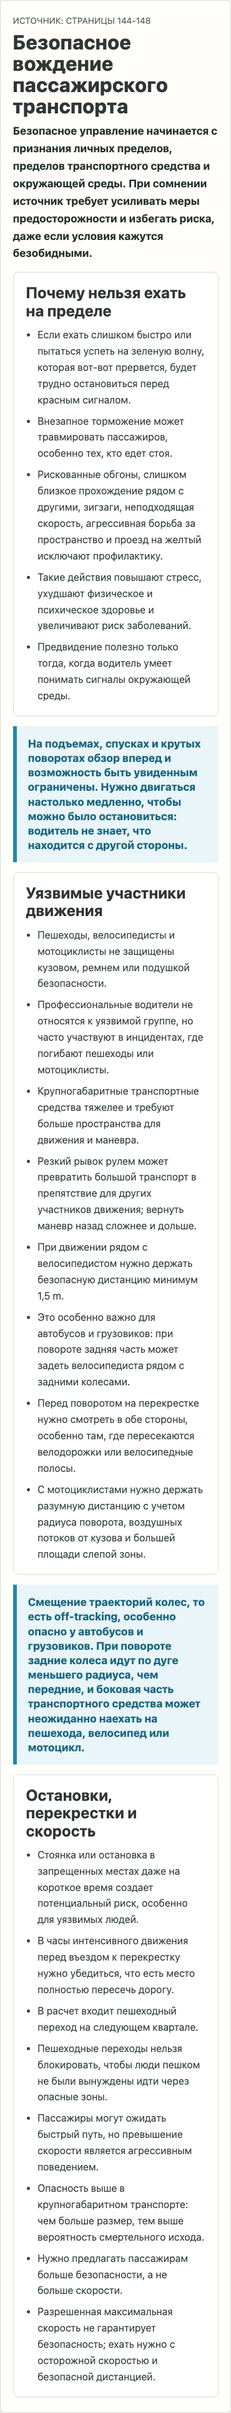
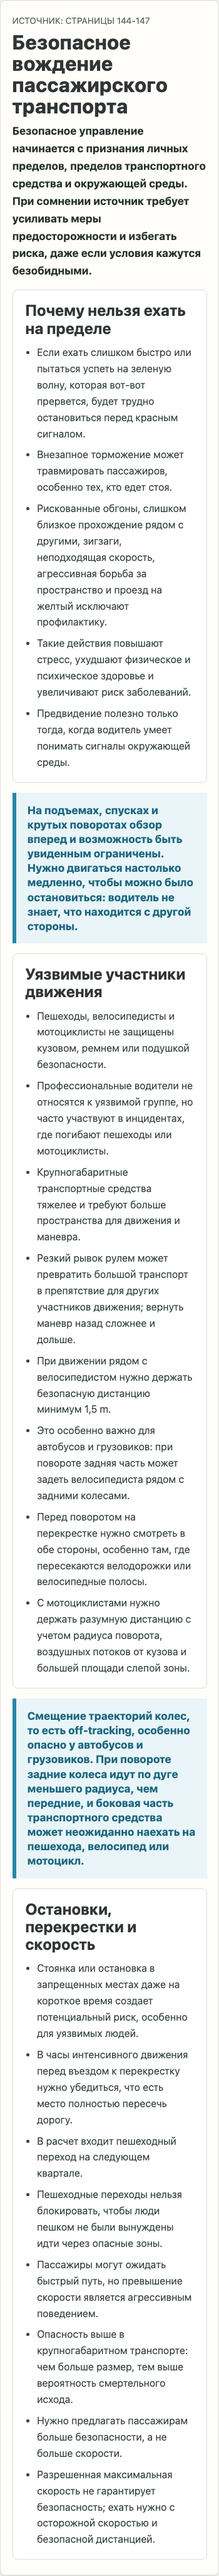
Fix Appendix II page 148 ownership

diff --git a/src/data/manual-sections/app2-safe-driving.ts b/src/data/manual-sections/app2-safe-driving.ts
@@ -4,7 +4,7 @@ export const app2SafeDrivingSection: ManualGuideSectionContent = {
   id: "app2-safe-driving-content",
   sectionId: "app2-safe-driving",
   titleRu: "Безопасное вождение пассажирского транспорта",
-  sourcePages: [144, 145, 146, 147, 148],
+  sourcePages: [144, 145, 146, 147],
   sourceTitleEs: "Conduccion segura",
   status: "implemented",
   styleTokenFamilies: [
@@ -19,15 +19,14 @@ export const app2SafeDrivingSection: ManualGuideSectionContent = {
       "content/validation/manual-guide/app2-safe-driving/page-144-safe-driving-source-crop.jpg",
       "content/validation/manual-guide/app2-safe-driving/page-145-safe-driving-source-crop.jpg",
       "content/validation/manual-guide/app2-safe-driving/page-146-safe-driving-source-crop.jpg",
-      "content/validation/manual-guide/app2-safe-driving/page-147-safe-driving-source-crop.jpg",
-      "content/validation/manual-guide/app2-safe-driving/page-148-safe-driving-source-crop.jpg"
+      "content/validation/manual-guide/app2-safe-driving/page-147-safe-driving-source-crop.jpg"
     ],
     russianScreenshots: [
       "content/validation/manual-guide/app2-safe-driving/app2-safe-driving-desktop.png",
       "content/validation/manual-guide/app2-safe-driving/app2-safe-driving-mobile.png"
     ],
     notes: [
-      "Pages 144-148 are implemented as selectable Russian DOM text.",
+      "Pages 144-147 are implemented as selectable Russian DOM text.",
       "No source images, photos, traffic signs, or road markings are used at runtime or altered."
     ]
   },

diff --git a/src/data/manual-sections/app2-highways-hospitals.ts b/src/data/manual-sections/app2-highways-hospitals.ts
@@ -7,7 +7,7 @@ export const app2HighwaysHospitalsSection: ManualGuideSectionContent = {
   id: "app2-highways-hospitals-content",
   sectionId: "app2-highways-hospitals",
   titleRu: "Автомагистрали и больницы",
-  sourcePages: [149, 150, 151],
+  sourcePages: [148, 149, 150, 151],
   sourceTitleEs: "Autopistas y hospitales",
   status: "implemented",
   styleTokenFamilies: [
@@ -20,6 +20,7 @@ export const app2HighwaysHospitalsSection: ManualGuideSectionContent = {
   visualEvidence: {
     checkerStatus: "pass",
     sourceScreenshots: [
+      "content/validation/manual-guide/app2-highways-hospitals/page-148-highways-hospitals-source-crop.jpg",
       "content/validation/manual-guide/app2-highways-hospitals/page-149-highways-hospitals-source-crop.jpg",
       "content/validation/manual-guide/app2-highways-hospitals/page-150-highways-hospitals-source-crop.jpg",
       "content/validation/manual-guide/app2-highways-hospitals/page-151-highways-hospitals-source-crop.jpg"

diff --git a/specs/031-manual-document-completion/tasks.md b/specs/031-manual-document-completion/tasks.md
@@ -115,7 +115,7 @@ For each chapter-equivalent content PR:
 | Chapter 4 | `89-97` | One chapter PR covering `ch4-alcohol-drugs`, `ch4-sleep-fatigue`, `ch4-stress`, and `ch4-distractions`; page `89` divider skipped; page `93` shared by alcohol/drugs and sleep/fatigue; page `94` shared by sleep/fatigue and stress; page `95` shared by stress recommendations and distractions with direct distractions navigation starting on page `95` | ready PR #189 at https://github.com/cucumberfalse/cabadrive/pull/189 from branch `codex/031-chapter-4`; implementation content head `2338c3a5e777cbd469f9ca23bcbbbf9dbbd4c62b`; page-93 boundary, refusal-procedure localization, stress-localization, strict infographic visual-rule repairs, Codex P2 `3351663509` motorcycle-passenger alcohol-limit scope repair, Codex P2 `3352010484` overlay-label visual-rule repair, Review Agent comment `3352219633` overlay-label mobile clipping repair, Codex P2 `3352233947` alcohol-effects localization repair, Review Agent comment `3352327144` sleep/fatigue remedy localization repair, and Review Agent comment `3352354749` broader learner-facing localization audit repair are included at effective content head `4e819cfd80ebf09b4d3db560a6bc3b57766ef39a`; ready for Analyst final validation after Architect validation at this head and later evidence transport/current-head guard |
 | Chapter 5 | `98-103` | One chapter PR covering `ch5-attitude-types`, `ch5-equal-society`, `ch5-gender-violence-prevention`, and `ch5-anticipatory-efficient-driving`; page `98` divider skipped; page `99` shared by attitude types and equality; page `100` shared by equality and gender-violence support; page `101` shared by gender-violence support and preventive/efficient driving | ready PR #190 open at https://github.com/cucumberfalse/cabadrive/pull/190 from branch `codex/031-chapter-5`; implementation content head `fa6983a6be8069b4bb4aaa51140a218c6ada3096`; current PR head reported by IA handoff |
 | Appendix I | `104-122` | One chapter-equivalent PR covering `app1-safety-elements`, `app1-other-required-safety-elements`, and `app1-recommended-safety-elements`; page `104` divider skipped; page `119` shared by safety-elements luggage/max-load masks and other-required heading/content | ready PR #191 open at https://github.com/cucumberfalse/cabadrive/pull/191 from branch `codex/031-appendix-i`; effective content/process head `dda0ad28119335c49499b9594e2f79a994fea823` includes implementation, localization repairs, SRI all-threshold/title/screenshot repair, tire-blowout page `109` repair, page `119` shared ownership repair, mirror photo-only crop repair, AI Review P2 `3354284239` SRI `+0` overlay correction to source range `1-15 месяцев, 0-13 kg`, and parser-readable Appendix I known-issue disposition/process-head decision; fresh Architect validation passed at `2026-06-04T08:56:25Z`; prior validation at `866646b8cfc54116975f21d8212e09f8d1c9b7c4` is stale/superseded for finalizer purposes; current/final PR head verification remains Orchestrator/finalizer-owned via read-only guard and expected-head finalizer before merge |
-| Appendix II | `123-151` | One chapter-equivalent PR covering `app2-social-responsibility`, `app2-safety-elements`, `app2-driving-factors`, `app2-safe-driving`, and `app2-highways-hospitals`; page `123` is included in `app2-social-responsibility`, not skipped | PR #192 open at https://github.com/cucumberfalse/cabadrive/pull/192 from branch `codex/031-appendix-ii`; current/effective repaired head `2bf175fdfd26d3216c880e648f6de7690ff434b6` includes implementation content head `30350124810133d9e7a77a8b2cb03356c36134b3`, AI Review P2 `3355086974` visual-preservation repair head `9ab22a12a6491228e4362cfb37dcfd871fb42d74`, Review Agent P2 `3355330713` mirror-readability layout repair, owner-approved page `150` unchanged high-resolution source image plus adjacent/under-image Russian translations for Review Agent P2 `3355789164`, page `123` learner-relevant introduction/professional-driver content repair for AI Review P1 `3357783979` at `22e242c13e05076998f83eea8c85dd5151890345`, and child-topic navigation-start repair for AI Review P2 `3358030532`; fresh Architect then Analyst validation remains before finalization, with stale-validation P1 `3357635123` as the expected validation item |
+| Appendix II | `123-151` | One chapter-equivalent PR covering `app2-social-responsibility`, `app2-safety-elements`, `app2-driving-factors`, `app2-safe-driving`, and `app2-highways-hospitals`; page `123` is included in `app2-social-responsibility`, not skipped | PR #192 open at https://github.com/cucumberfalse/cabadrive/pull/192 from branch `codex/031-appendix-ii`; current/effective repaired head `2bf175fdfd26d3216c880e648f6de7690ff434b6` includes implementation content head `30350124810133d9e7a77a8b2cb03356c36134b3`, AI Review P2 `3355086974` visual-preservation repair head `9ab22a12a6491228e4362cfb37dcfd871fb42d74`, Review Agent P2 `3355330713` mirror-readability layout repair, owner-approved page `150` unchanged high-resolution source image plus adjacent/under-image Russian translations for Review Agent P2 `3355789164`, page `123` learner-relevant introduction/professional-driver content repair for AI Review P1 `3357783979` at `22e242c13e05076998f83eea8c85dd5151890345`, child-topic navigation-start repair for AI Review P2 `3358030532`, derived topic-display override repair for AI Review P2 `3358308779`, and page `148` source-boundary repair for AI Review P2 `3358446725`; fresh Review Agent, required checks, Architect validation, and Analyst validation remain before finalization, with stale-validation P1 `3357635123` as the expected validation item |
 | Appendix III | `152-183` | One chapter-equivalent PR | pending |
 | Appendix IV | `184-200` | One chapter-equivalent PR; source-as-is signs/markings | pending |
 
@@ -220,11 +220,12 @@ For each chapter-equivalent content PR:
 - Validation staleness notice, PR #190: automated Codex comments `3352716346` and `3352716350` required a post-review non-evidence visual asset/registry/test/process repair after current head `c6a040a21162f6dd9ebc0474e20993e5b8cb45c6`; therefore any final validation or final-validation evidence for `c6a040a21162f6dd9ebc0474e20993e5b8cb45c6` is stale for finalization. The pushed visual/boundary repair head must become the new effective content head and receive fresh Architect then Analyst final validation before finalization.
 - Validation staleness decision, PR #189 `2026-06-03T18:25:31Z`: Codex review comment `3350790136` required a post-validation non-evidence content/test/registry/process repair after effective content head `a8ecdac9daed66274ba51fb04ecbe47279aae2f6` and current head `9d249963ff245f32f67384a4bc17f1361d8bb891`. Prior Architect and Analyst final validation for `a8ecdac9daed66274ba51fb04ecbe47279aae2f6` is stale for finalization; a new effective content head plus fresh Architect final validation followed by Analyst final validation is required after this repair is committed, pushed, and required checks pass.
 - Implementation decision, Appendix II content `2026-06-04T09:43:06Z`: Implementation Agent assignment was confirmed for worktree `/Users/chap/devel/cabadrive-worktrees/031-appendix-ii`, branch `codex/031-appendix-ii`, with verified base `origin/main` / `HEAD` `38ab6bac15a6f90ee7a9520c59cf932c38f5597f` after merged PR #191 Appendix I. Parallel work warning was preserved; no sibling worktree, branch, dirty diff, PR, or process memory was mutated.
-- Appendix II source-boundary decision after AI Review P1 `3357783979` / thread `PRRT_kwDOSX65IM6HJjmB`: source page `123` is learner-relevant Appendix II content, not divider-only. Official source page `123` contains the Appendix II introduction and the start of `Una responsabilidad social`, including the public-transport social/mobility framing, professional-driver definition, license categories `C`, `D`, and `E`, minimum age `21`, more than `1` year prior class `B` experience, first-time professional-license practical exam rule for people over `65`, and the key-role callout. Runtime Appendix II must implement page `123` in `app2-social-responsibility` with page `124`, then continue `app2-safety-elements` pages `125-136`, `app2-driving-factors` pages `137-143`, `app2-safe-driving` pages `144-148`, and `app2-highways-hospitals` pages `149-151`. Prior page `123` divider-only/skipped disposition is superseded. No Appendix III, Appendix IV, front matter, cleanup, or unrelated correction content is bundled.
+- Appendix II source-boundary decision after AI Review P1 `3357783979` / thread `PRRT_kwDOSX65IM6HJjmB`: source page `123` is learner-relevant Appendix II content, not divider-only. Official source page `123` contains the Appendix II introduction and the start of `Una responsabilidad social`, including the public-transport social/mobility framing, professional-driver definition, license categories `C`, `D`, and `E`, minimum age `21`, more than `1` year prior class `B` experience, first-time professional-license practical exam rule for people over `65`, and the key-role callout. Runtime Appendix II must implement page `123` in `app2-social-responsibility` with page `124`, then continue `app2-safety-elements` pages `125-136`, `app2-driving-factors` pages `137-143`; later AI Review P2 `3358446725` corrected the final source boundary so `app2-safe-driving` owns pages `144-147` and `app2-highways-hospitals` owns pages `148-151`. Prior page `123` divider-only/skipped disposition is superseded. No Appendix III, Appendix IV, front matter, cleanup, or unrelated correction content is bundled.
 - Validation staleness decision, PR #192 AI Review P1 `3357783979`: prior final Architect/Analyst validations through effective process/content head `d502fad26cdfcf8c4c03b57134cf6bd9d870828d` are stale because the page `123` source-boundary/content repair is behaviorally meaningful Appendix II runtime content and evidence scope. PR #192 cannot finalize until page `123` coverage is implemented, reviewed, checked, and fresh Architect then Analyst validation is recorded on the new effective head. Other AI Review P1 `3357635123` about stale validation should be handled after this page `123` content/boundary repair; it is expected to be superseded by fresh validation on the repaired head.
 - Appendix II navigation-start decision after AI Review P2 `3358030532` / thread `PRRT_kwDOSX65IM6HKL42`: accept the finding for navigation behavior. Source/content ownership remains `app2-social-responsibility` pages `123-124`, and the Appendix II parent navigation item must keep `startPage: 123` for the appendix intro/source start. However, the child topic navigation item `app2-social-responsibility` / `Социальная ответственность` must start at source page `124`, because the layout evidence places the actual `Una responsabilidad social` heading on page `124`; page `123` is Appendix II introduction/pre-heading content and should not make the child topic duplicate the parent appendix target. Smallest Implementation Agent follow-up: update only the child topic navigation `startPage` to `124`, keep its source/content range and registry evidence at `123-124`, keep runtime page `123` learner content intact, and update any navigation tests/fixtures/evidence that assert the child starts at `123`. Prior final validations remain stale until this navigation fix is implemented, reviewed, checked, and fresh Architect then Analyst validation is recorded.
 - Appendix II registry ownership disposition after AI Review P2 `3358076379` / thread `PRRT_kwDOSX65IM6HKTgZ`: reject the finding as a false positive for source/content ownership. Source page `123` is not only the Appendix II divider/title page; the official source page `123` contains learner-relevant Appendix II introduction text and the start of the professional-driver/social-responsibility material, including public-transport social/mobility framing, professional-driver definition, license categories `C`/`D`/`E`, minimum age `21`, class `B` experience over `1` year, first-time professional-license practical-exam rule for people over `65`, and the key-role callout before the page `124` marker. Therefore `app2-social-responsibility` must continue to own source/content pages `123-124`; the already-implemented navigation split remains correct with the Appendix II parent starting at page `123` and the child topic navigation starting at page `124`. Smallest Implementation Agent follow-up: no product/runtime/registry change is required for `3358076379`; only commit this Architect process-memory disposition and continue with Review Agent/check resolution plus fresh Architect then Analyst validation for the repaired PR head. Prior final validations remain stale until that fresh validation cycle completes.
 - Appendix II guide-topic display disposition after AI Review P2 `3358308779` / thread `PRRT_kwDOSX65IM6HK9CL`: accept the finding as a real product/navigation-display gap, but reject excluding source page `123` from `app2-social-responsibility` content ownership. Official source page `123` remains learner-relevant Appendix II content and must stay in `sourcePageRange` / `sourcePages` for `app2-social-responsibility` (`123-124`). The gap is that `src/data/manualGuide.ts` derives `ManualGuideNavigationChild.sourcePage` from `section.sourcePageRange.start`, so the derived interactive guide topic can display/select page `123` even though canonical child navigation starts at page `124`. Smallest Implementation Agent follow-up: add an explicit registry/schema/type field for topic navigation/display start, or an equivalent narrowly scoped override, set it to `124` for `app2-social-responsibility`, update `childForSection` to use that override for `sourcePage` while keeping `endPage` and content/evidence coverage intact, preserve Appendix II parent `startPage: 123`, preserve `app2-social-responsibility` source/content ownership pages `123-124`, and add/update tests so registry ownership remains `123-124` while derived `manualGuideNavigation` child display/start is `124`. Prior Architect/Analyst final validation for effective content/process head `92771e10ca9afdaa9f7906a71f74d4fa8f9c3b32` is stale because the follow-up requires product/schema/test changes; fresh Review Agent, required checks, Architect validation, and Analyst validation are required after IA implementation.
+- Appendix II source-boundary disposition after AI Review P2 `3358446725` / thread `PRRT_kwDOSX65IM6HLVwQ`: accept the finding as a real source-boundary and product-evidence gap. Official source page `148` begins the `Autopistas y Hospitales` section with `Paseo del Bajo` rules, while current runtime `app2-highways-hospitals` renders Paseo del Bajo content but registry/navigation/evidence assign page `148` to `app2-safe-driving` and start highways/hospitals at page `149`. Smallest Implementation Agent follow-up: move source page `148` provenance from `app2-safe-driving` to `app2-highways-hospitals`; set `app2-safe-driving` source/content/evidence/navigation range to pages `144-147`; set `app2-highways-hospitals` source/content/evidence/navigation range to pages `148-151` and derived guide topic start/display to `148`; update section modules, registry, navigation, source-region metadata, screenshot/evidence references, tests, and checker expectations accordingly. If source crop/evidence files are moved or renamed, preserve x5/equivalent source-export bytes without retouching, translation, cleanup, reconstruction, masking, or in-image alteration. Preserve the page `150` hospital map exactly source-as-is with Russian translations outside/below. Prior Architect/Analyst final validation for `92771e10ca9afdaa9f7906a71f74d4fa8f9c3b32` and process/product evidence through `c6e24663c9e337c7cdab76fc7f5cca1591e5eb6a` is stale for finalization because this follow-up requires product/evidence/test changes; fresh Review Agent, required checks, Architect validation, and Analyst validation are required after IA implementation.
[1 lines of base64/hex data omitted]
 - Appendix II page `150` hospital-map owner decision after Review Agent P2 `3355789164` and Implementation Agent feedback: user decision received via Orchestrator on `2026-06-04` says to leave the original high-quality source image unchanged and add translations nearby under the image. Architect disposition: the current PR head `bf9f9f21f4cb9d014d37dc5092921a419f83d855` broad-mask transferred runtime map is not acceptable and must be replaced. Page `150` must instead render the original high-resolution x5/equivalent source map image unchanged at runtime, with no Spanish cleanup, inpainting, masking, translation, relabeling, recolor, reconstruction, retouching, or source-detail alteration inside the image; Russian title/legend/list/full hospital-name translations must be adjacent to or below the image as selectable DOM text. This is an owner-approved narrow visible-Spanish source-image exception for the page `150` hospital map only because the image remains source-as-is and all Russian translation is outside/under it. Final Architect validation may pass only after Implementation Agent removes/stops certifying broad cleanup/provenance, implements the source-as-is runtime map, updates evidence/tests/screenshots/registry to identify the page `150` exception, and Review Agent P2 `3355789164` is resolved or outdated.
 - Appendix II content decision: Russian learner content preserves the passenger-transport legal and safety details from the source, including professional-driver requirements (`21+`, at least one year with category B, practical exam after age `65`), social responsibility, VTV/technical-state duties, mirrors, brakes, tires, belts, passenger compartment/equipment, rest/fatigue/nutrition/posture/accessibility, taxi/remis/bus/school/reduced-mobility practices, boarding/alighting safety, bus-stop approach, passenger information, taxi positioning, `1,5 m` cyclist passing distance, off-tracking and turn-circle caution, speed/stopping-distance factors, Paseo del Bajo use, hospital map/location references, and priority/wayfinding near hospitals.
@@ -296,6 +297,7 @@ For each chapter-equivalent content PR:
 - Appendix II known issue resolution after AI Review P1 `3357783979` / thread `PRRT_kwDOSX65IM6HJjmB`: source page `123` coverage is resolved. Prior disposition incorrectly treated page `123` as divider-only/skipped, but official source page `123` contains learner-relevant Appendix II introduction and `Una responsabilidad social` content: professional-driver definition, categories `C`/`D`/`E`, minimum age `21`, class `B` experience over `1` year, first-time professional-license practical exam rule for people over `65`, and key-role callout. Implementation Agent repair implements source page `123` in `app2-social-responsibility`, updates registry/navigation/source-fidelity evidence so page `123` is no longer skipped/divider-only, refreshes `app2-social-responsibility` screenshots, and adds regression tests for page `123` ownership and learner-facing professional-driver details. Owner decision: resolved by source-boundary evidence; no separate owner choice needed. Disposition: resolved at effective content/process head `92771e10ca9afdaa9f7906a71f74d4fa8f9c3b32` and evidence head `767fdb41bfb2ad89d219e50ef496a2162cfc86e9`; Architect and Analyst final validation are recorded for the effective head. Existing Vite large chunk warning remains non-fatal and pre-existing; it is unrelated to Appendix II content and requires no action in this slice. The page `150` owner-approved source-as-is visible-Spanish exception remains resolved/intact.
 - Appendix II known issue resolution after AI Review P2 `3358030532` / thread `PRRT_kwDOSX65IM6HKL42`: child topic navigation start is resolved. Implementation Agent repair updates the child topic navigation start for `app2-social-responsibility` / `Социальная ответственность` to page `124`, preserving the Appendix II parent `startPage: 123`, `app2-social-responsibility` source/content ownership pages `123-124`, runtime page `123` learner content, and registry/source-fidelity evidence. Owner decision: not applicable; navigation/source-boundary evidence resolves the issue. Disposition: resolved at effective content/process head `92771e10ca9afdaa9f7906a71f74d4fa8f9c3b32` and evidence head `767fdb41bfb2ad89d219e50ef496a2162cfc86e9`; Review Agent, required checks, Architect validation, and Analyst validation are complete for this repair path.
 - Appendix II known issue resolution after AI Review P2 `3358308779` / thread `PRRT_kwDOSX65IM6HK9CL`: derived `manualGuideNavigation` display/start is resolved. `app2-social-responsibility` source/content ownership remains pages `123-124`; page `123` is not skipped/divider-only and retains learner content/evidence. Implementation Agent repair adds the explicit `topicNavigationStartPage` override in the section registry/types, sets it to `124` for `app2-social-responsibility`, and updates `childForSection` so the derived interactive guide child topic starts/displays page `124` while retaining `sourcePageRange`/`sourcePages` coverage through pages `123-124`. Owner decision: not needed; source and navigation evidence define the required implementation path. Disposition: resolved by product/schema/test follow-up; previous final Architect/Analyst validation for `92771e10ca9afdaa9f7906a71f74d4fa8f9c3b32` is stale and fresh validation is required after review and checks on the new effective content/process head.
+- Appendix II known issue resolution after AI Review P2 `3358446725` / thread `PRRT_kwDOSX65IM6HLVwQ`: page `148` source-boundary/provenance is resolved by IA follow-up. Official source page `148` starts `Autopistas y Hospitales` / `Paseo del Bajo`, and runtime `app2-highways-hospitals` renders Paseo del Bajo rules, so registry/navigation/source-fidelity evidence now assign page `148` to `app2-highways-hospitals`, reduce `app2-safe-driving` to pages `144-147`, and start/display `app2-highways-hospitals` at page `148` through page `151`. Owner decision: not needed; source-boundary evidence defines the repair. Disposition: resolved by product/evidence/test follow-up; previous final Architect/Analyst validation is stale and fresh Review Agent, required checks, Architect validation, and Analyst validation are required after this repair.
 
 ## Chapter 2 Implementation Verification Evidence
 
@@ -448,7 +450,7 @@ For each chapter-equivalent content PR:
 - Base and scope evidence: `git rev-parse HEAD` before editing returned `38ab6bac15a6f90ee7a9520c59cf932c38f5597f`, matching the Orchestrator-assigned verified `origin/main` base after merged PR #191 Appendix I. Initial active-worktree status showed branch `codex/031-appendix-ii` tracking `origin/main` with no local changes. Work stayed in `/Users/chap/devel/cabadrive-worktrees/031-appendix-ii` on branch `codex/031-appendix-ii`.
 - Source extraction evidence: `swift scripts/render-manual-pdf-pages.swift content/official-documents/originals/gcba-manual-vehiculo-4-ruedas-2023.pdf /tmp/cabadrive-app2-x5-pages --scale 5 --quality 0.95` rendered source pages `123-151` at `2976x4209`. Committed Appendix II source crops under `content/validation/manual-guide/app2-*/` were copied from those x5 renders with no resizing, translation, cleanup, retouching, masking, inpainting, reconstruction, or broad plates. Prior page `123` divider evidence under `app2-social-responsibility` is stale after AI Review P1 `3357783979`; Implementation Agent must replace the skipped/divider disposition with source-backed page `123` learner-content evidence.
[3 lines of base64/hex data omitted]
 - Focused verification before AI Review P1 `3357783979`: `node scripts/manual-guide-source-fidelity.mjs` passed with `status: pass`, `mode: complete-chapters-1-through-5-and-appendices-1-through-2`, `sectionsChecked: 35`, `pendingSections: 0`, `implementedSections: 35`, `skippedSourcePages: [21,43,56,57,89,98,104,123]`, `skippedDividerPages: [21,43,57,89,98,104,123]`, `omittedBookOnlyPages: [56]`, `sharedSourcePages: [55,93,94,95,99,100,101,119]`, `screenshotEvidence: recorded_for_complete_chapters_1_through_5_and_appendices_1_through_2_sections`, `sourceCropEvidence: x5_source_crops_recorded_for_complete_chapters_1_through_5_and_appendices_1_through_2_sections`, and `strictVisualRulePolicy: 031-strict-source-fidelity`. This verification is stale for page `123`; repaired verification must no longer list page `123` as skipped/divider-only.
 - Focused verification before AI Review P1 `3357783979`: `node --test tests/content-manual-guide-chapters.test.mjs` passed with `82` tests and `0` failures. Assertions included the now-stale page `123` divider disposition; repaired tests must instead cover page `123` Appendix II introduction/professional-driver content, source range through `151`, exact five Appendix II section ids, passenger-transport legal/safety/health/route detail retention, strict visual metadata, source boundaries, screenshot/source-crop evidence, and no Appendix III/IV bundling.
[1 lines of base64/hex data omitted]
@@ -456,6 +458,7 @@ For each chapter-equivalent content PR:
 - Review-fix focused verification after AI Review P1 `3357783979`: `node scripts/manual-guide-source-fidelity.mjs` passed with `sectionsChecked: 35` and page `123` absent from `skippedSourcePages` / `skippedDividerPages`; `node --test tests/content-manual-guide-chapters.test.mjs` passed `86/86` subtests; `node --test tests/content-manual-vehiculo-4ruedas.test.mjs` passed `16/16` subtests; `pnpm exec tsc --noEmit`, `node scripts/check-feature-memory.mjs --worktree`, `git diff --check`, and `pnpm run build` passed. The production build included content validation, source-fidelity validation, asset sync, Vite build, and service-worker generation with the existing non-fatal large-chunk warning.
 - Review-fix focused verification after AI Review P2 `3358030532` / thread `PRRT_kwDOSX65IM6HKL42`: updated only the child topic navigation start for `app2-social-responsibility` / `Социальная ответственность` to page `124`; Appendix II parent navigation remains `startPage: 123`, `app2-social-responsibility` source/content ownership and registry/source-fidelity evidence remain pages `123-124`, and runtime page `123` learner content remains intact. `node scripts/manual-guide-source-fidelity.mjs` passed with `sectionsChecked: 35`, `pendingSections: 0`, `implementedSections: 35`, `skippedSourcePages: [21,43,56,57,89,98,104]`, and `skippedDividerPages: [21,43,57,89,98,104]`; `node --test tests/content-manual-vehiculo-4ruedas.test.mjs` passed `16/16` subtests; `node --test tests/content-manual-guide-chapters.test.mjs` passed `86/86` subtests; `node scripts/check-feature-memory.mjs --worktree` passed; `git diff --check` passed.
 - Review-fix focused verification after AI Review P2 `3358308779` / thread `PRRT_kwDOSX65IM6HK9CL`: `app2-social-responsibility` registry source/content ownership remains `123-124` and derived `manualGuideNavigation` child display/start now uses `topicNavigationStartPage: 124`. `node scripts/check-feature-memory.mjs --worktree` passed; `pnpm run validate:manual-guide` passed with `sectionsChecked: 35`, `pendingSections: 0`, `implementedSections: 35`, `skippedSourcePages: [21,43,56,57,89,98,104]`, and `skippedDividerPages: [21,43,57,89,98,104]`; `node --test --test-name-pattern "Appendix II|manualGuideNavigation|registry contains source|hierarchy references source" tests/content-manual-guide-chapters.test.mjs` passed the selected `7` subtests with `0` failures; `pnpm exec tsc --noEmit` passed; `git diff --check` passed; `pnpm run test` passed `395/395` tests; `pnpm run build` passed, including content validation, source-fidelity validation, asset sync, Vite build, and service-worker generation with the existing non-fatal large-chunk warning.
[2 lines of base64/hex data omitted]
 - Focused verification passed: `pnpm exec tsc --noEmit`; `git diff --check`; `node scripts/check-feature-memory.mjs --worktree`; `node scripts/manual-guide-source-fidelity.mjs`; `node --test tests/content-manual-guide-chapters.test.mjs` with `82` tests and `0` failures.
 - Broader verification passed: `pnpm run preflight` passed, including feature-memory gate, repository baseline check, content validation with source-fidelity `sectionsChecked: 35`, `pendingSections: 0`, and `implementedSections: 35`, `pnpm run test` with `391` tests and `0` failures, production build, service-worker generation, and Playwright e2e with `78` tests and `0` failures. The existing Vite large chunk warning appeared during builds and remains non-fatal/pre-existing.
@@ -957,6 +960,7 @@ For each chapter-equivalent content PR:
 - Implementation Agent feedback for Appendix II scope after AI Review P1 `3357783979` / thread `PRRT_kwDOSX65IM6HJjmB`: content-boundary repair was implemented by Implementation Agent at `22e242c13e05076998f83eea8c85dd5151890345`. Source page `123` is implemented in `app2-social-responsibility`, preserving the Appendix II introduction/social-mobility framing, professional-driver definition, categories `C`/`D`/`E`, minimum age `21`, class `B` experience over `1` year, first-time professional-license practical exam rule for people over `65`, and key-role callout; source ranges, registry/navigation, evidence, screenshots, and tests cover Appendix II pages `123-151` without listing page `123` as skipped/divider-only. Architect disposition: disposed; no action needed for PR #192 at effective content/process head `92771e10ca9afdaa9f7906a71f74d4fa8f9c3b32` and evidence head `767fdb41bfb2ad89d219e50ef496a2162cfc86e9`.
 - Implementation Agent feedback for Appendix II scope after AI Review P2 `3358030532` / thread `PRRT_kwDOSX65IM6HKL42`: navigation-start feedback is implemented in this IA follow-up. The child topic navigation start for `app2-social-responsibility` / `Социальная ответственность` points to page `124`, where layout evidence places the `Una responsabilidad social` heading; the Appendix II parent still starts at `123`, `app2-social-responsibility` source/content ownership and registry/evidence remain pages `123-124`, and runtime page `123` learner content is intact. Architect disposition: disposed; no action needed for PR #192 at effective content/process head `92771e10ca9afdaa9f7906a71f74d4fa8f9c3b32` and evidence head `767fdb41bfb2ad89d219e50ef496a2162cfc86e9`.
 - Implementation Agent feedback for Appendix II scope after AI Review P2 `3358308779` / thread `PRRT_kwDOSX65IM6HK9CL`: implemented in this IA follow-up. `app2-social-responsibility` source/content ownership remains pages `123-124`; page `123` is not marked skipped/divider-only and learner content/evidence remains intact. The section registry now carries `topicNavigationStartPage: 124`, `ManualGuideSectionEntry` types the override, and `childForSection` uses it for the derived `manualGuideNavigation` child `sourcePage`/display start while retaining `sourcePageRange`/`sourcePages` coverage and `endPage: 124`. Focused tests assert both the preserved `123-124` source range and the derived child display/start page `124`. Architect disposition: implementation complete for IA scope; previous final validation for `92771e10ca9afdaa9f7906a71f74d4fa8f9c3b32` is stale after this product/schema/test follow-up and must be rerun after Review Agent and required checks.
[1 lines of base64/hex data omitted]
 - Implementation Agent feedback for Chapter 5 scope after Review Agent comment `3352682015` and automated Codex comments `3352716346` / `3352716350`: none unresolved. Page `98` is divider-only; pages `99-103` are implemented as the assigned Chapter 5 content slice; page `99`, page `100`, and page `101` shared boundaries are recorded and tested; page `101` now coherently records that gender-violence support masks `11-25` continue after the preventive-driving heading at mask `09`; protected page `103` photo/quote remains source-as-is with Russian explanation outside the image; the page `100` mobility infographic is a source-crop-based transferred PNG with glyph-letter-level Spanish cleanup, `visibleSpanish=false`, source-crop provenance, cleaned `54%`/`50%`/`30%` row glyph fragments, and selectable Russian DOM labels over the cleaned infographic surface; the mixed-language preventive-driving title is localized to Russian and covered by regression tests. No Appendix/front-matter or unrelated content is bundled. Architect disposition: no action requested.
 - No unresolved Implementation Agent feedback. Architect disposition: disposed; no action needed for PR #190 at `46132199fb12a2590032b81d6c9b9ebc86efab44`.
 - Implementation Agent feedback for Chapter 4 scope after PR #189 review fixes through Review Agent comment `3352354749`: fully disposed. Architect disposition: disposed; no action needed for PR #189 at `4e819cfd80ebf09b4d3db560a6bc3b57766ef39a`. Page `89` remains divider-only; pages `90-97` are implemented as the assigned Chapter 4 content slice; page `93` alcohol/drugs-to-sleep/fatigue boundary, page `94` sleep/fatigue-to-stress boundary, and page `95` stress-to-distractions/direct-route boundary are recorded and tested. Visual/source-fidelity evidence keeps the page `90` drug-test photo and page `97` photo/quote as protected source-as-is x5 runtime crops with Russian learner explanation outside images, while the page `91` alcohol-limit and page `95` distraction-panel infographics are source-crop-based transferred PNGs with glyph-letter-level Spanish cleanup, `visibleSpanish=false`, source-crop provenance, selectable Russian labels over the cleaned infographic surfaces, and selectable Russian explanation/table content outside images. PR #189 review fixes for alcohol-limit rows, including the `acompañantes en motovehículos` legal scope, sleep/fatigue Russian wording, visual-fidelity thread `PRRT_kwDOSX65IM6G1aYu`, Codex review comments `3350790136`, `3351081820`, `3351219753`, `3351329538`, `3351663509`, `3352010484`, `3352233947`, and Review Agent comments `3352219633`, `3352327144`, and `3352354749` are implemented, locally verified, and included at the validated effective content head.
